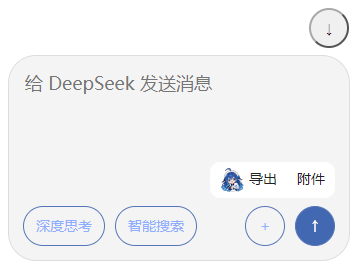
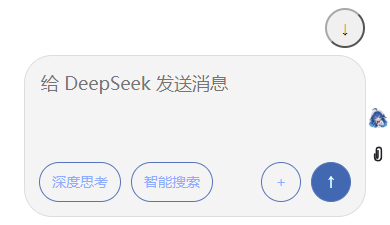
Explain centered and side export controls with updated screenshots

diff --git a/docs/RELEASE-NOTES.md b/docs/RELEASE-NOTES.md
@@ -1,13 +1,13 @@
-# DeepSeek Export Plus 2.1.1
+# DeepSeek Export Plus 2.1.2 · 稳定版
 
 适用于Chrome、Edge等Chromium桌面浏览器的DeepSeek网页对话导出插件，支持chat和share。基于[sati0121/DeepSeek-Exporter](https://github.com/sati0121/DeepSeek-Exporter)独立维护，保留原作者署名及MIT许可。
 
-- 修复导出工具栏挤动发送按钮、挡住网页下降按钮的问题。宽窗口放在上传按钮左侧，窄窗口放在输入框内的独立一行，缩放后重新定位；没有输入区时使用对话顶部工具栏。
-- share正文统一使用“DeepSeek 对话记录”，文件名前缀可单独修改。chat保留可编辑标题。
-- 对话MD、ZIP、PDF建议保存名及附件ZIP加入本地导出时间，精确到秒，方便区分重复导出。
-- 附件窗口选1个直接下载，选多个打包为一个ZIP；单文件失败直接提示原因，不生成空壳压缩包。
-- 修复过长附件名丢失扩展名、合法空文件被拒绝的问题。思考仍默认关闭，图片仍明确标记为网页预览版。
+- 导出入口移到输入框底部控件行的中间，与原生按钮保持垂直居中，不再增加一行或撑高输入框。
+- 按原生按钮的实际位置寻找空位，兼容Flex、Grid和占满剩余宽度的容器，避免依赖某种网页包装结构。
+- 窄窗口使用输入框侧边的小肥鱼与附件图标；没有安全空位或没有输入区时回退到对话内容顶部。
+- 输入框高度变化、滚动、窗口缩放、异步加载和刷新后同步定位；保留上传、发送及下降按钮的位置和点击功能。
+- 更新安装截图与README，布局测试扩展为96组。思考默认关闭、秒级文件名、固定分享标题及单文件直下/多文件ZIP等功能继续保留。
 
-本地安装可解压`DeepSeek-Export-Plus-2.1.1.zip`，在Chrome或Edge扩展管理页加载直接含有`manifest.json`的目录；也可执行`npm ci`、`npm run build`后加载`dist`。更新时先重新加载扩展，再刷新DeepSeek页面。要求Chromium120及以上。
+本地安装可解压`DeepSeek-Export-Plus-2.1.2.zip`，在Chrome或Edge扩展管理页加载直接含有`manifest.json`的目录；也可执行`npm ci`、`npm run build`后加载`dist`。更新时先重新加载扩展，再刷新DeepSeek页面。要求Chromium120及以上。
 
-验证覆盖39项单元测试、32组布局组合、实际扩展浏览器集成，以及6轮真实分享捕获与7附件回放。单个附件及ZIP的内容均逐字节一致，PDF正文标题、图片和文本边界通过检查。当前登录chat账号未直接实测，网页未返回的工具内容仍无法恢复。详细范围见[验证记录](https://github.com/xiaohei07/DeepSeek-Export-Plus/blob/main/docs/VALIDATION.md)。
+本版验证覆盖39项单元测试、96组布局组合和实际扩展浏览器集成，另检查侧边入口、contenteditable输入框、高度变化及极窄窗口回退。使用者已确认实际页面的按钮位置正常。自动化运行于隔离页面，不能据此保证所有账号灰度布局和未来网页版本都兼容；网页未返回的工具内容仍无法恢复。详细范围见[验证记录](https://github.com/xiaohei07/DeepSeek-Export-Plus/blob/main/docs/VALIDATION.md)。

diff --git a/docs/VALIDATION.md b/docs/VALIDATION.md
@@ -1,5 +1,21 @@
 # 验证记录
 
+## 2.1.2稳定版
+
+验证日期：2026-10-23。使用独立Playwright Chromium加载实际构建的扩展；使用者已确认实际页面的按钮位置正常。
+
+| 检查 | 结果 |
+| --- | --- |
+| 单元测试 | 39项通过，保留提取、格式、标题、秒级文件名和附件检查 |
+| 原问题复现 | Grid包装结构下，旧版把162px高的输入框撑到206px；独立定位后不再往输入框内增加一行 |
+| 布局回归 | Flex、Grid、占满剩余宽度的容器 × chat/share × 浅色/深色 × 1200/983/600/390px × 36/40px原生按钮，共96组 |
+| 原生控件 | 输入框、功能按钮、上传、发送和下降按钮的尺寸与坐标保持不变；实际点击上传、发送和下降按钮通过 |
+| 入口适配 | 宽窗口底部居中，窄窗口侧边图标；两个侧边入口均可打开对应导出面板 |
+| 动态变化 | 窗口缩放、页面刷新、输入区延迟挂载、contenteditable输入和高度变化后重新定位；无侧边空位时回退到对话顶部 |
+| 导出集成 | MD/PDF、工具顺序、默认关闭思考、标题与秒级名称、单附件直接下载、多附件ZIP及错误提示通过 |
+
+本次主要验证布局修复，未重复执行2.1.1记录的整份6轮分享捕获与7附件回放。界面截图来自隔离复现页面；使用者的实际网页确认与自动化结果分别记录，仍不扩大为所有账号、Edge版本或未来网页布局均已实测。
+
 ## 2.1.1
 
 验证日期：2026-10-23。使用独立Playwright Chromium加载实际构建的2.1.1扩展。
@@ -52,7 +68,7 @@
 
 ## 已知边界
 
-- 当前登录chat页面、Edge及其他Chromium发行版尚未分别人工验收；灰度界面和未见过的工具类型可能需要继续适配。
+- 使用者已确认2.1.2入口位置正常；开发侧未直接操作其登录chat账号，也未逐一人工验证Edge及其他Chromium发行版。灰度界面和未见过的工具类型可能需要继续适配。
 - 完整消息和分组快照保留可确认的原顺序，DOM回退按可确认的位置排列。页面未返回、已删除或无法展开的内容不能恢复。
 - 工具分组可以保留多个网页来源，但不一定能恢复每个并发调用的内部顺序。
 - 图片可能只有网页预览版；远程图片可能受跨域限制，附件链接可能过期。单附件40MB、附件合计100MB、PDF内嵌图片合计5MB。

diff --git a/CHANGELOG.md b/CHANGELOG.md
@@ -1,5 +1,13 @@
 # 更新记录
 
+## 2.1.2（稳定版）
+
+- 导出工具栏放在输入框底部控件行的中间，与原生控件垂直居中；采用独立定位，不往输入框增加一行，不挤动原生按钮。
+- 按原生按钮的实际矩形寻找空位，修复Grid及占满剩余宽度的外层容器被误判为空间不足的问题。
+- 窄窗口收为输入框外侧的小肥鱼和附件图标；侧边也没有空位时回退到对话内容顶部。
+- 输入框高度变化、滚动、窗口缩放、异步加载及页面刷新后同步位置，补充contenteditable输入区检查。
+- 布局测试扩展到96组，同时检查原生控件的位置、尺寸与实际点击；更新安装截图和说明。
+
 ## 2.1.1
 
 - 修复导出按钮插入发送按钮的窄容器后导致换行的问题。只在有足够宽高的横向控件行内放置，空间不足时移到输入框内的独立一行，窗口缩放后重新定位。
